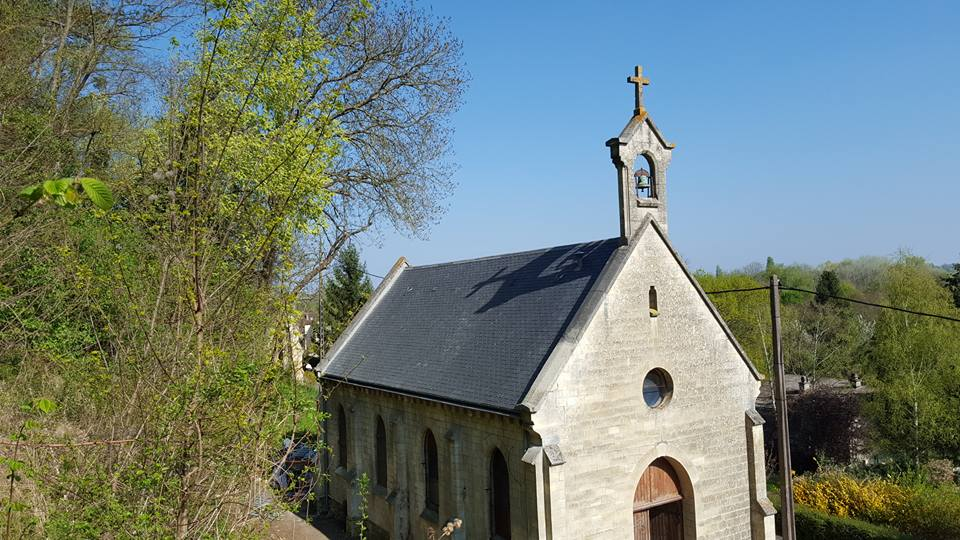
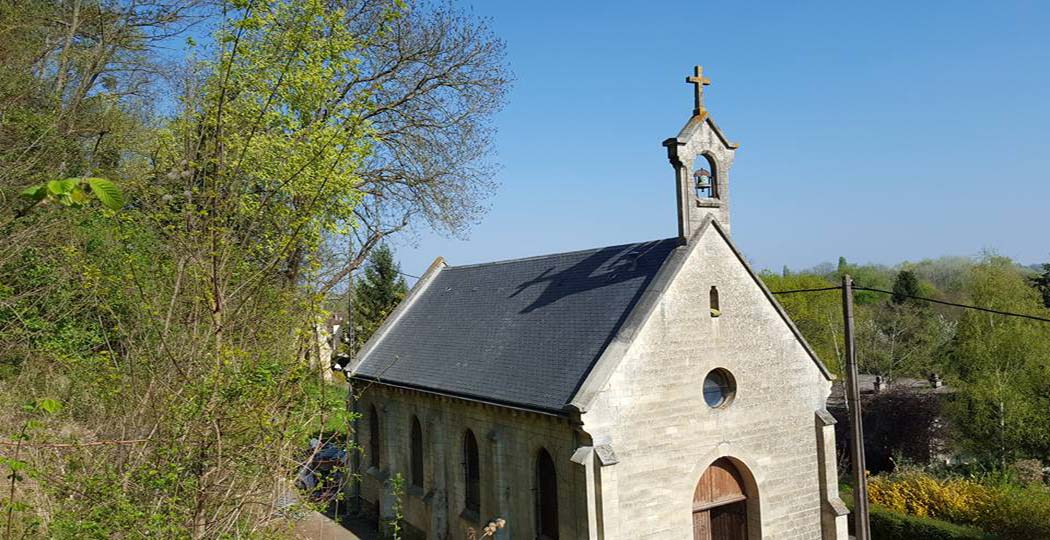
optimizate pozele

diff --git a/index.html b/index.html
@@ -59,8 +59,8 @@
 		<![endif]-->
 		<link rel="stylesheet" href="utile/css/all.min.css" type="text/css">
 		<!-- End WOWSlider.com HEAD section -->
-		<script src="utile/js/jquery.min3.js"></script>
-		<script src="utile/js/modernizr.min.js"></script>
+		<script type="text/javascript" src="utile/js/jquery.min3.js"></script>
+		<script type="text/javascript" src="utile/js/modernizr.min.js"></script>
 		<script type="text/javascript" src="utile/js/smk-accordion.min.js"></script>
 		<link rel="stylesheet" type="text/css" href="//assets.juicer.io/embed.css"/>
 	</head>
@@ -744,7 +744,7 @@ $(nodes).wrapAll('<span class="'+prefix+'_parent-link '+prefix+'_row"/>').parent
 			</div>
 		</div>
 			<script type="text/javascript">
-				jQuery(document).ready(function($){
+				jQuery(document).ready(function(){
 					$(".directii_accordion").smk_Accordion();
 				});
 			</script>
